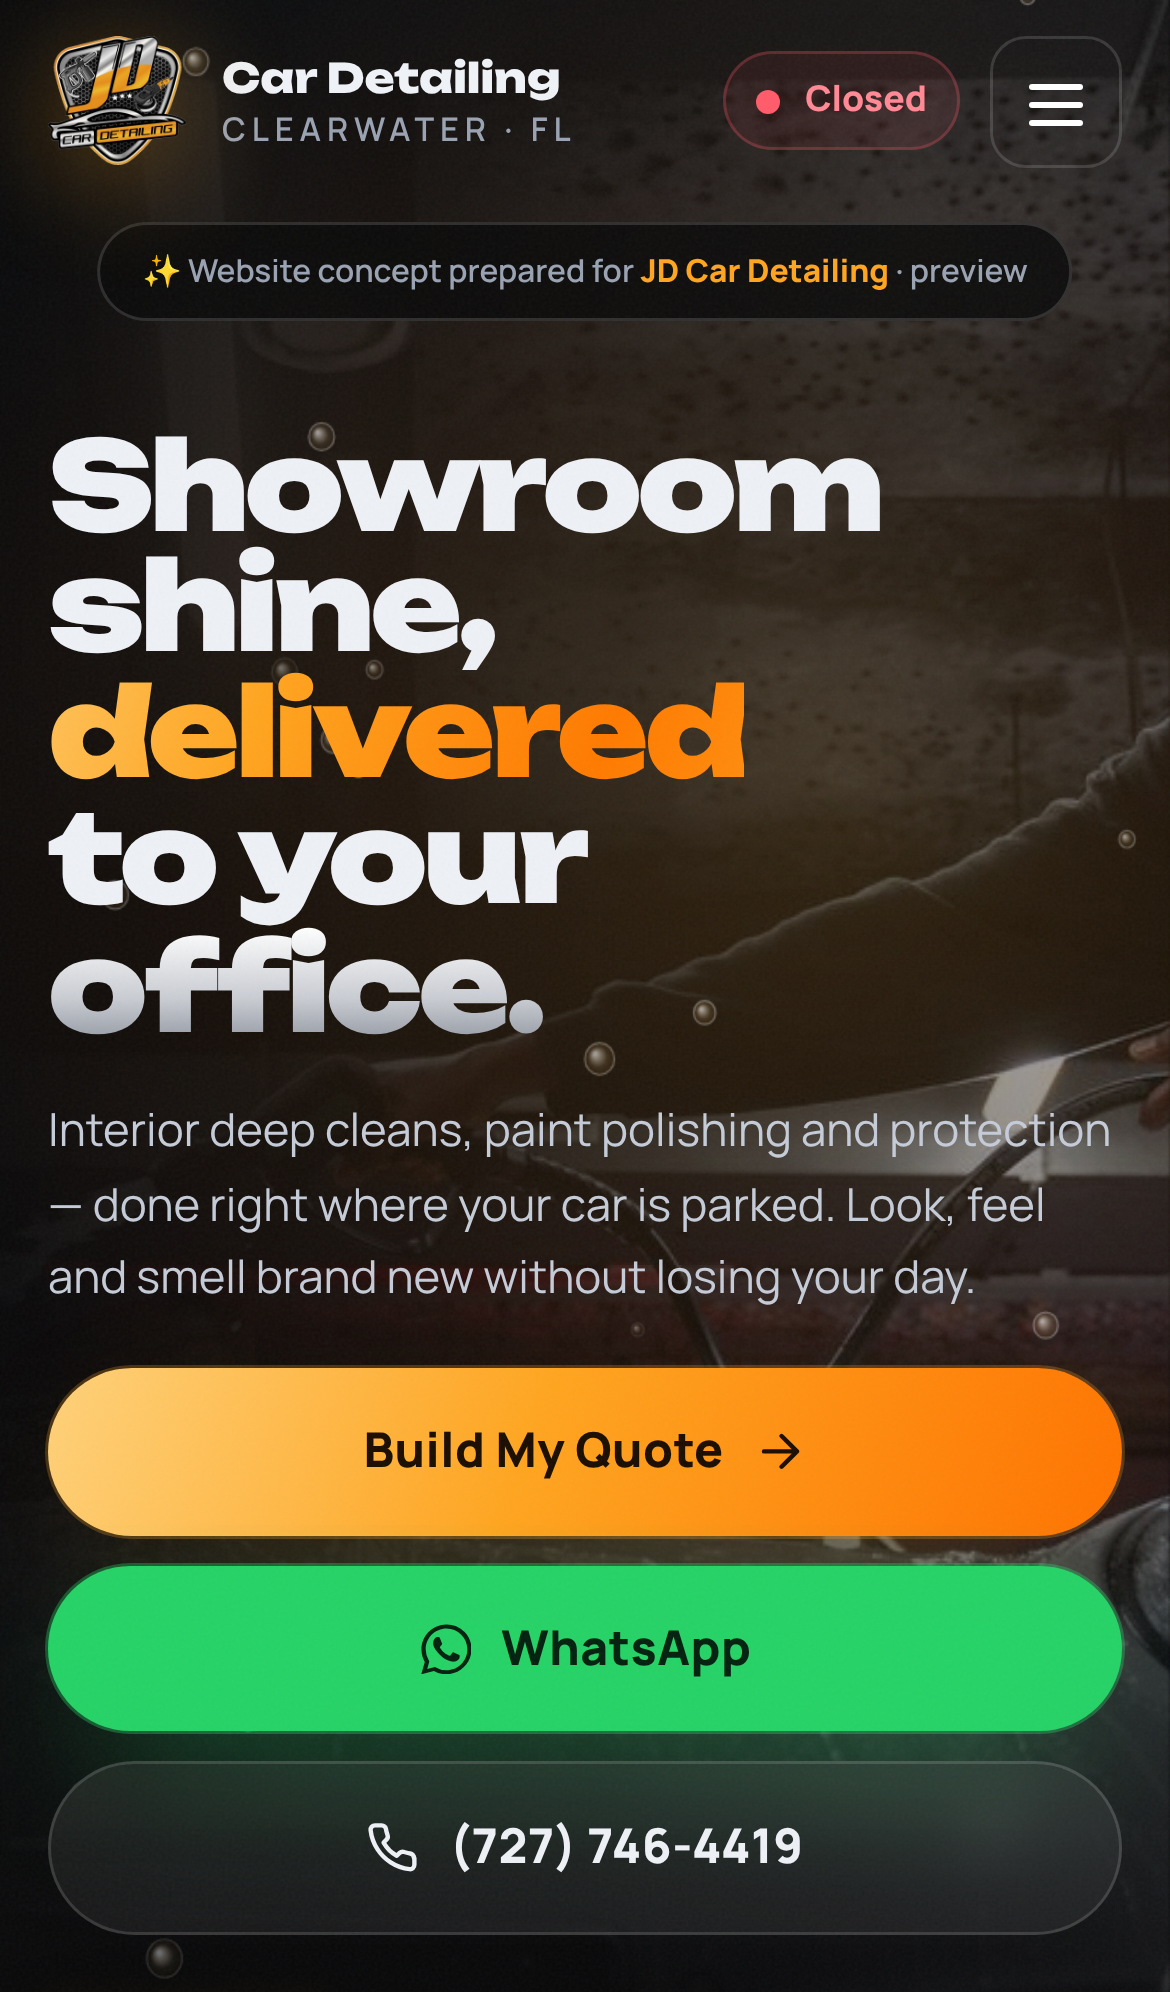
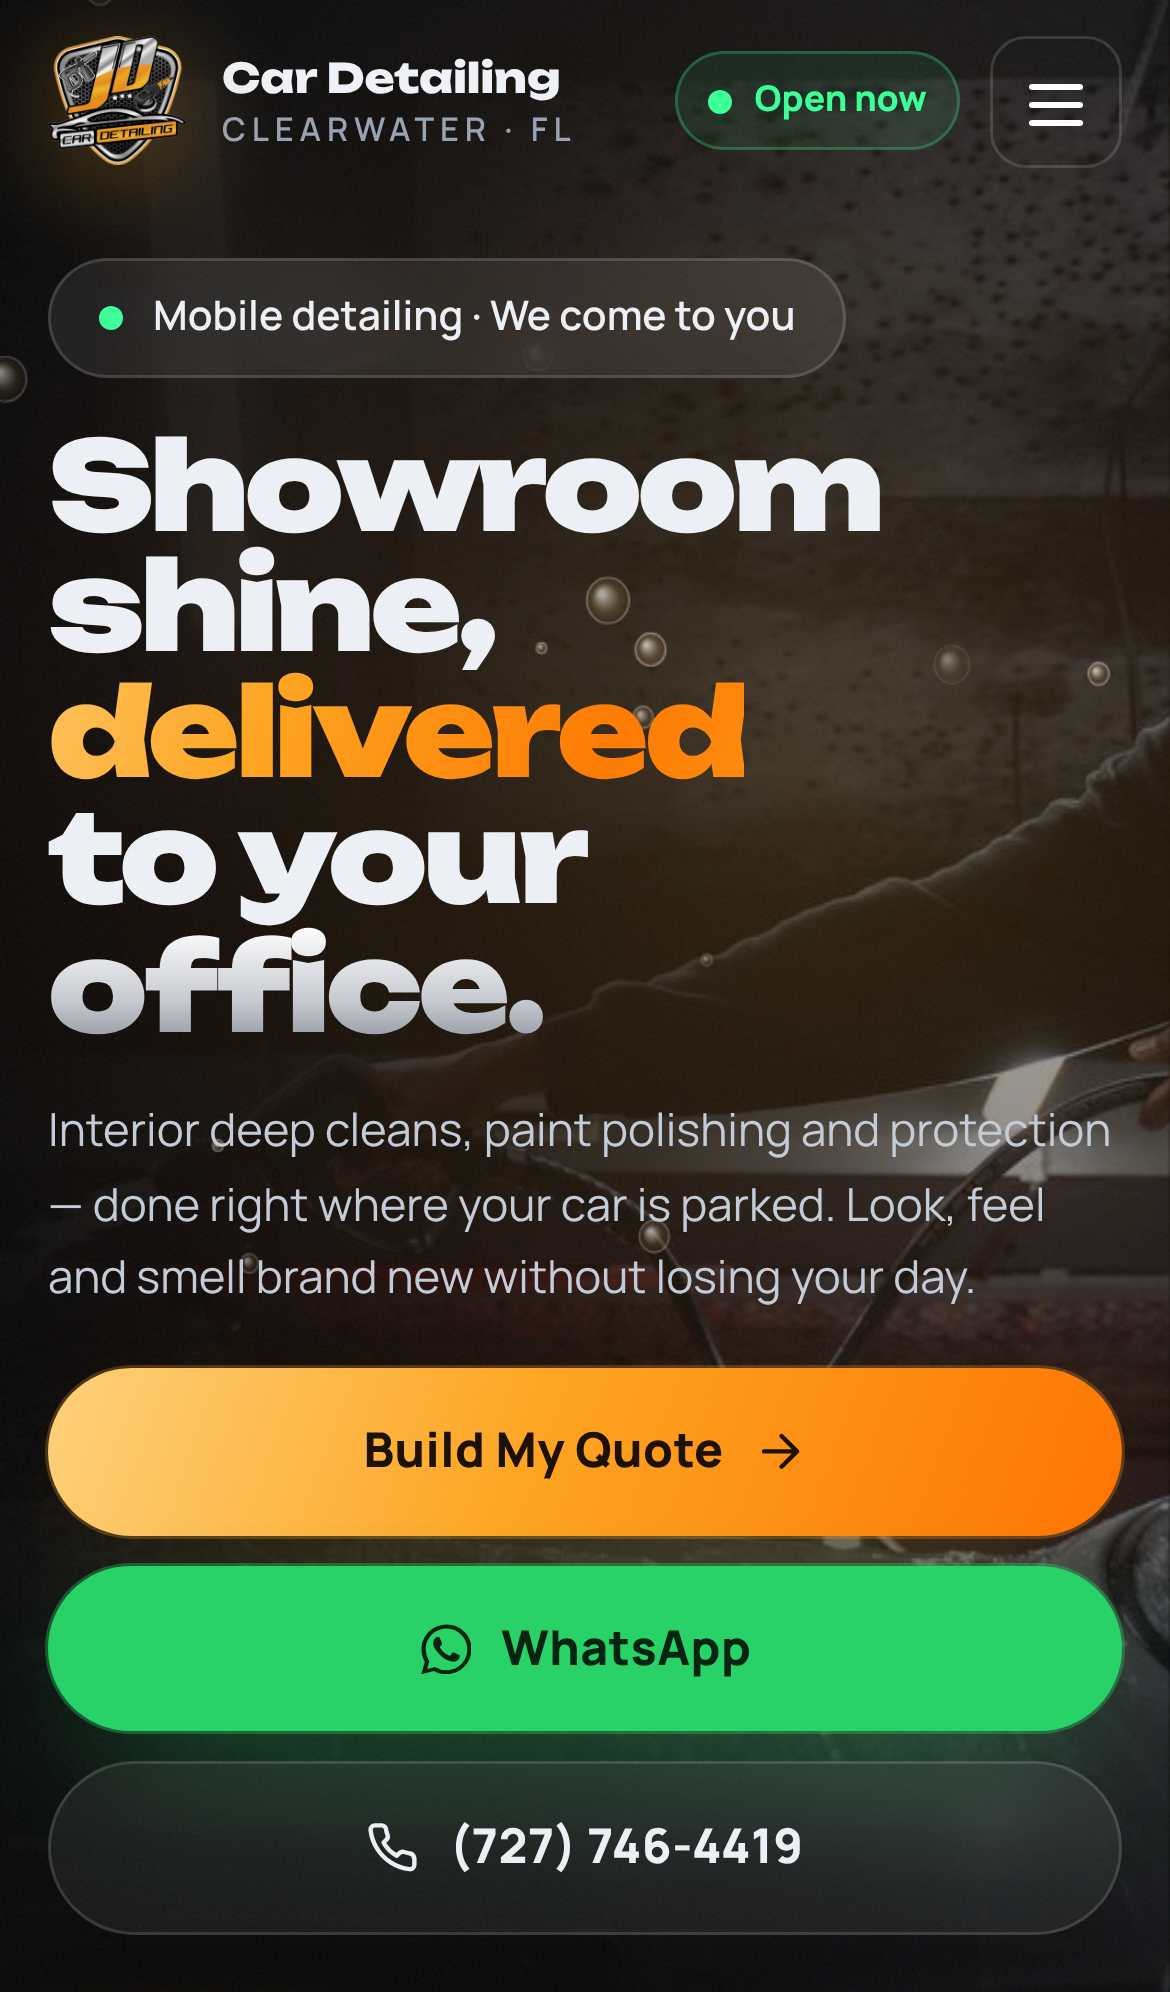
Remove the preview ribbon (mirrors the Lovable change) and restore the hero eyebrow on phones
- Pitch screenshots regenerated without the ribbon

Claude-Session: https://claude.ai/code/session_01W2Y3kbou2QoPqcbtq9DCii

diff --git a/index.html b/index.html
@@ -47,7 +47,6 @@
     </div>
   </div>
 
-  <div class="demo-ribbon" role="note">✨ Website concept prepared for <b>JD Car Detailing</b> · preview</div>
   <div class="scroll-progress" id="scrollProgress"></div>
   <div class="cursor" id="cursor" aria-hidden="true"></div>
   <div class="cursor-dot" id="cursorDot" aria-hidden="true"></div>

diff --git a/assets/css/style.css b/assets/css/style.css
@@ -970,3 +970,6 @@ body::after {
   .fab-bar__wa { flex: 1.7 !important; font-size: .92rem !important; }
   .fab-bar__main { flex: 1 !important; }
 }
+
+/* demo ribbon removed: show the hero eyebrow again on phones/tablets */
+@media (max-width: 960px) { .hero__eyebrow { visibility: visible; } }
